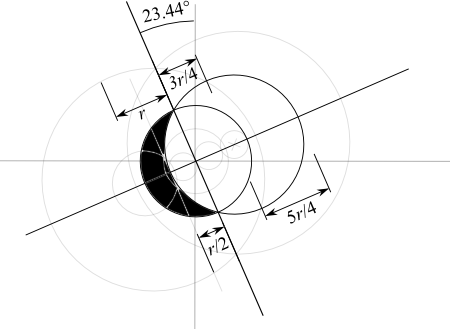
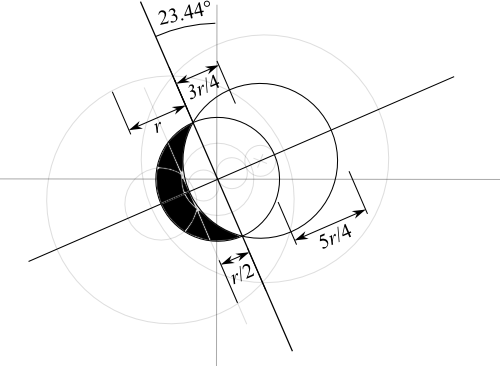
make diagram larger; add an update entry pointing to it.

diff --git a/README.md b/README.md
@@ -6,6 +6,10 @@ Proposal to Add the IEC 60417-5009 Power Symbol to Unicode
 Latest Updates
 --------------
 
+*(7th February 2014)*
+
+- Here is a [diagram](#update20140207) of the compass and straightedge construction.
+
 *(6th February 2014)*
 
 - [Notes on Constructing the BLACK WANING CRESCENT MOON](#update20140206) with compass
@@ -590,7 +594,7 @@ of the origin.  The desired crescent is the area of the smaller circle outside t
 Rotate the crescent about the centre of the smaller circle anti-clockwise 23.44&deg; to
 match the axial tilt of Earth.
 
-<img
+<a name="update20140207"/><img
 src="https://github.com/jloughry/Unicode/raw/master/graphics/construction_of_the_crescent_moon.png"
 alt="compass and straightedge construction of the BLACK WANING CRESCENT MOON"/>
 
